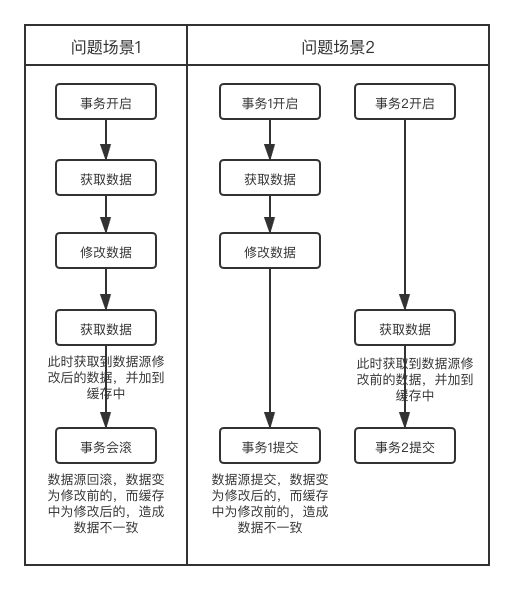
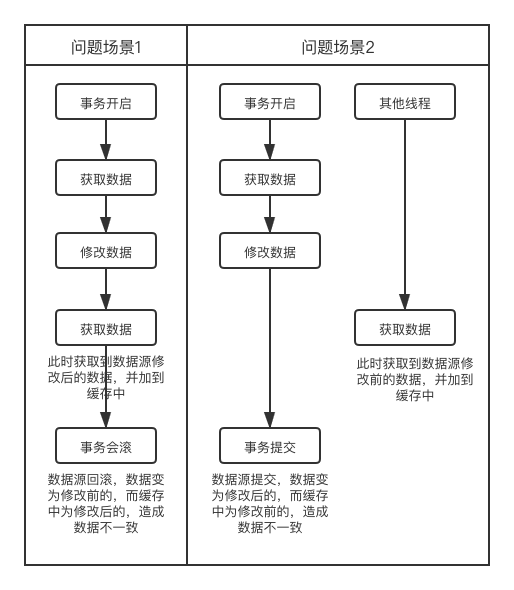
optimizing

diff --git a/images/posts/2021/05/cache-data-consistency-3.mm b/images/posts/2021/05/cache-data-consistency-3.mm
@@ -1,1 +1,1 @@
-<map version="1.0.1"><node CREATED="1621352384230" ID="ID_root" MODIFIED="1621352384230" TEXT="事务场景下缓存数据一致性"><node CREATED="1621352384230" ID="ID_2273df256294" POSITION="right" MODIFIED="1621352384230" TEXT="1.关注此事务操作了多少key是否可行？"><node CREATED="1621352384230" ID="ID_cccc8145126c" MODIFIED="1621352384230" TEXT="4.是否也不能新增key？"><node CREATED="1621352384230" ID="ID_8bf5169af8ea" MODIFIED="1621352384230" TEXT="12.可以的"><node CREATED="1621352384230" ID="ID_32fdba3a68cf" MODIFIED="1621352384230" TEXT="14.而且新增key时无需加入“操作”列表"></node></node><node CREATED="1621352384230" ID="ID_5b89e78f9b18" MODIFIED="1621352384230" TEXT="13.如果新增key在“删除”列表，则不能新增"></node></node><node CREATED="1621352384230" ID="ID_1854fa5f4b05" MODIFIED="1621352384230" TEXT="10.删除key如何管理？"><node CREATED="1621352384230" ID="ID_81dd32509657" MODIFIED="1621352384230" TEXT="15.事务会滚时，删除的key要再删除一遍"></node></node></node><node CREATED="1621352384230" ID="ID_73155f8070d6" POSITION="right" MODIFIED="1621352384230" TEXT="2.仅关注此事务期间新增了多少key是否可行？"><node CREATED="1621352384230" ID="ID_46a191dbb205" MODIFIED="1621352384230" TEXT="3.不可行。此事务期间除了本机本线程，还有其它服务器线程"><node CREATED="1621352384230" ID="ID_513df2d8d7d5" MODIFIED="1621352384230" TEXT="9.而且新增的key存储在哪里都是个问题。而且如果期间有多个事务，新增一个key还得存多份"></node></node></node><node CREATED="1621352384230" ID="ID_3d3605bf6c51" POSITION="right" MODIFIED="1621352384230" TEXT="5.非事务才使用缓存，事务就不用缓存是否可行？"><node CREATED="1621352384230" ID="ID_1efe351f1461" MODIFIED="1621352384230" TEXT="6.不可行。此事务不用，非事务用，照样不能保证一致性"></node></node><node CREATED="1621352384230" ID="ID_74c54336c531" POSITION="right" MODIFIED="1621352384230" TEXT="7.存在事务期间，整个系统禁止新增缓存？"><node CREATED="1621352384230" ID="ID_78834eddaa50" MODIFIED="1621352384230" TEXT="8.如何通知其他服务器线程？是否每次新增key都要check？"></node><node CREATED="1621352384230" ID="ID_163f539ab75e" MODIFIED="1621352384230" TEXT="11.如果系统大部分请求开启了事务，则无意义"></node></node></node></map>
+<map version="1.0.1"><node CREATED="1621419500449" ID="ID_root" MODIFIED="1621419500449" TEXT="事务场景下缓存数据一致性"><node CREATED="1621419500449" ID="ID_2273df256294" POSITION="right" MODIFIED="1621419500449" TEXT="1.关注此事务操作了多少key是否可行？"><node CREATED="1621419500449" ID="ID_cccc8145126c" MODIFIED="1621419500449" TEXT="4.是否也不能新增key？"><node CREATED="1621419500449" ID="ID_8bf5169af8ea" MODIFIED="1621419500449" TEXT="12.可以的"><node CREATED="1621419500449" ID="ID_32fdba3a68cf" MODIFIED="1621419500449" TEXT="14.而且新增key时无需加入“操作”列表"></node></node><node CREATED="1621419500449" ID="ID_5b89e78f9b18" MODIFIED="1621419500449" TEXT="13.如果新增key在“删除”列表，则不能新增"></node></node><node CREATED="1621419500449" ID="ID_1854fa5f4b05" MODIFIED="1621419500449" TEXT="10.删除key如何管理？"><node CREATED="1621419500449" ID="ID_81dd32509657" MODIFIED="1621419500449" TEXT="15.事务完成后，删除的key要再删除一遍"></node></node></node><node CREATED="1621419500449" ID="ID_73155f8070d6" POSITION="right" MODIFIED="1621419500449" TEXT="2.仅关注此事务期间新增了多少key是否可行？"><node CREATED="1621419500449" ID="ID_46a191dbb205" MODIFIED="1621419500449" TEXT="3.不可行。此事务期间除了本机本线程，还有其它服务器线程"><node CREATED="1621419500449" ID="ID_513df2d8d7d5" MODIFIED="1621419500449" TEXT="9.而且新增的key存储在哪里都是个问题。而且如果期间有多个事务，新增一个key还得存多份"></node></node></node><node CREATED="1621419500449" ID="ID_3d3605bf6c51" POSITION="right" MODIFIED="1621419500449" TEXT="5.非事务才使用缓存，事务就不用缓存是否可行？"><node CREATED="1621419500449" ID="ID_1efe351f1461" MODIFIED="1621419500449" TEXT="6.不可行。此事务不用，非事务用，照样不能保证一致性"></node></node><node CREATED="1621419500449" ID="ID_74c54336c531" POSITION="right" MODIFIED="1621419500449" TEXT="7.存在事务期间，整个系统禁止新增缓存？"><node CREATED="1621419500449" ID="ID_78834eddaa50" MODIFIED="1621419500449" TEXT="8.如何通知其他服务器线程？是否每次新增key都要check？"></node><node CREATED="1621419500449" ID="ID_163f539ab75e" MODIFIED="1621419500449" TEXT="11.如果系统大部分请求开启了事务，则无意义"></node></node></node></map>

diff --git a/_posts/2021-05-16-cache-data-consistency-in-transaction-scenarios.md b/_posts/2021-05-16-cache-data-consistency-in-transaction-scenarios.md
@@ -10,9 +10,9 @@ keywords: cache, consistency, transaction
 
 ## 问题
 ### 非事务场景
-大部分使用缓存的场景都是非事务的，甚至都不要求数据强一致性。比如各种营销：看着有货，创建订单报没有货，返回去查，还能查到有货。PS：机票超卖是故意，与缓存无关。
+大部分使用缓存的场景都是非事务的，甚至都不要求数据强一致性。比如各种限时限量抢购：看着有货，创建订单报没有货，返回去查，还能查到有货。PS：机票超卖是故意，与缓存无关。
 
-非事务场景下，缓存与数据源数据一致性，`仅需数据源操作成功后清理掉相应的缓存即可`。如下图：
+非事务场景下，缓存与数据源数据一致性，`仅需数据源操作成功后，清理掉相应的缓存即可`。如下图：
 
 ![](/images/posts/2021/05/cache-data-consistency-1.png)
  
@@ -21,7 +21,7 @@ keywords: cache, consistency, transaction
 
 ![](/images/posts/2021/05/cache-data-consistency-2.png)
 
-除上图经典场景外，还有更多多线程/多用户/多服务器场景。
+除上图场景外，还有更多事务交织的场景。
 
 ## 思考
 假设：单机系统使用的是单机缓存或分布式缓存，分布式系统使用的是分布式缓存。分布式系统使用单机缓存不在考虑范围之内。
@@ -32,7 +32,7 @@ keywords: cache, consistency, transaction
 ### 缓存接口修改
 ```java
 public interface CacheHelper {
-  ThreadLocal<Map<String, List<String>>> DEL_MAP = ThreadLocal.withInitial(Map0::newHashMap);//by transaction, by key list
+  ThreadLocal<Map<String, List<String>>> DEL_MAP = ThreadLocal.withInitial(Map0::newHashMap);//by transaction
 
   default Boolean del(boolean withoutTransactional, @NonNull String key) {
     if (!withoutTransactional && inTransactional()) {
@@ -52,19 +52,13 @@ public interface CacheHelper {
       getCache().set(key, value);
     }
   }
-
-  default boolean inTransactional() {
-    return !String0.isNullOrEmpty(currentTransactionName()) && !TransactionSynchronizationManager.isCurrentTransactionReadOnly();
-  }
-
-  default String currentTransactionName() {
-    return TransactionSynchronizationManager.getCurrentTransactionName();
-  }
 }
 ```
 
 ### 事务切面处理
 ```java
+@Aspect
+@Component
 @Order(CacheTransactionAspect.ORDER)//@EnableTransactionManagement(order = <this)
 public class CacheTransactionAspect {
   public static final int ORDER = 500000;
@@ -90,6 +84,9 @@ public class CacheTransactionAspect {
 ```java
 @Component
 public class CacheTransactionEventListener {
+  @Autowired
+  private CacheHelper cacheHeloper;
+
   @TransactionalEventListener(phase = TransactionPhase.AFTER_COMPLETION)
   public void afterCompletion(PayloadApplicationEvent<CacheTransactionEventObject> event) {
     String transactionName = event.getPayload().getTransactionName();
@@ -106,10 +103,7 @@ public class CacheTransactionEventListener {
 }
 ```
 
-
-20210518记16：事务提交场景下也要删除一遍已删除的key，因为其他服务器线程可能缓存了旧的数据。
-
 ## 回顾
-非事务场景下：`仅需数据源操作成功后清理掉相应的缓存即可`
+非事务场景下：`仅需数据源操作成功后，清理掉相应的缓存即可`
 
-事务场景下：`本事务不应缓存已清理的key之外，将缓存清理过一遍的key，在事务完成后再清理一遍即可`
+事务场景下：`除本事务不应缓存已清理的key之外，在事务完成后，已清理过一遍的key，还需再清理一遍`
